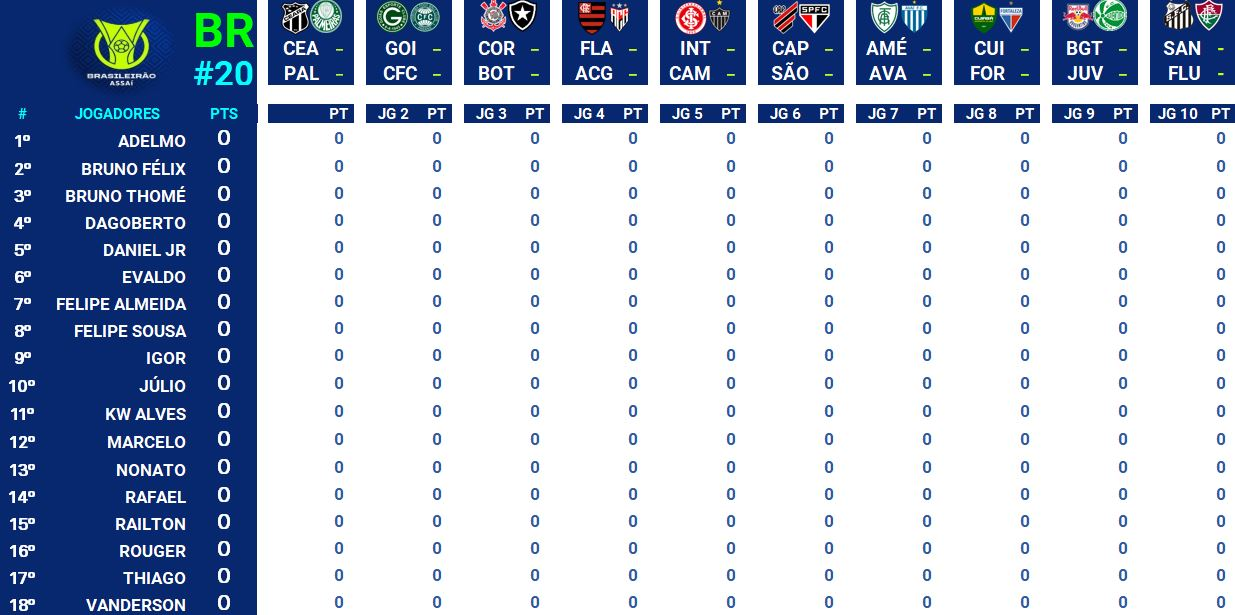
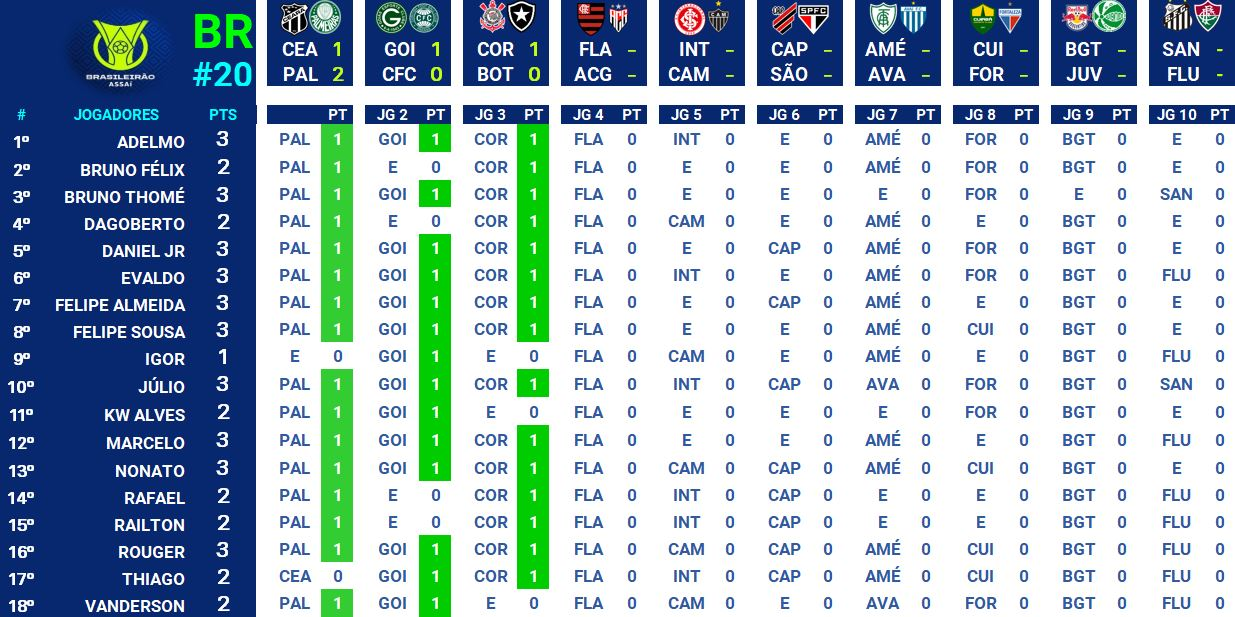
Atualização dos jogos de sábado

diff --git a/index.html b/index.html
@@ -51,16 +51,16 @@
         <div class="container grid">
           <div class="image">
             <img
-              src="./assets/fotos/mercadoaberto.png"
+              src="./assets/fotos/match20.JPG"
               alt="Logo do Campeonato Brasileiro 2022"
             />
           </div>
           <div class="text">
-            <h2 class="title"><a href="./palpites_20.html">MERCADO ABERTO: 20ª Rodada começa neste sábado</a></h2>
+            <h2 class="title"><a href="./predictor.html">MERCADO FECHADO: Acompanhem os jogos em tempo real</a></h2>
             <p>
-              Mercado fecha neste sábado às 16:30
+              A bola tá rolando
             </p>
-           <a class="button" href="./palpites_20.html">CLIQUE AQUI E PALPITE</a>
+           <a class="button" href="./predictor.html">Resultados da 20ª Rodada</a>
           </div>
         </div>
       </section>

diff --git a/validate.html b/validate.html
@@ -85,8 +85,8 @@
         <div class="popup">
             <img src="./assets/fotos/tick.png">
             <h2>Palpite salvo!</h2>
-            <p>Você receberá um e-mail confirmando seus palpites. Boa sorte!</p>
-            <h1 class="back"><a href="http://bolaobrasileirao.epizy.com">Ir para home</h1></a>
+            <p>Aguarde a confirmação de todos os palpites pelo whatsapp</p>
+            <h1 class="back"><a href="http://thiagogagliari.github.io/bolaobrasileirao/">Ir para Página Principal</h1></a>
         </div>
     </div>
 </body>
